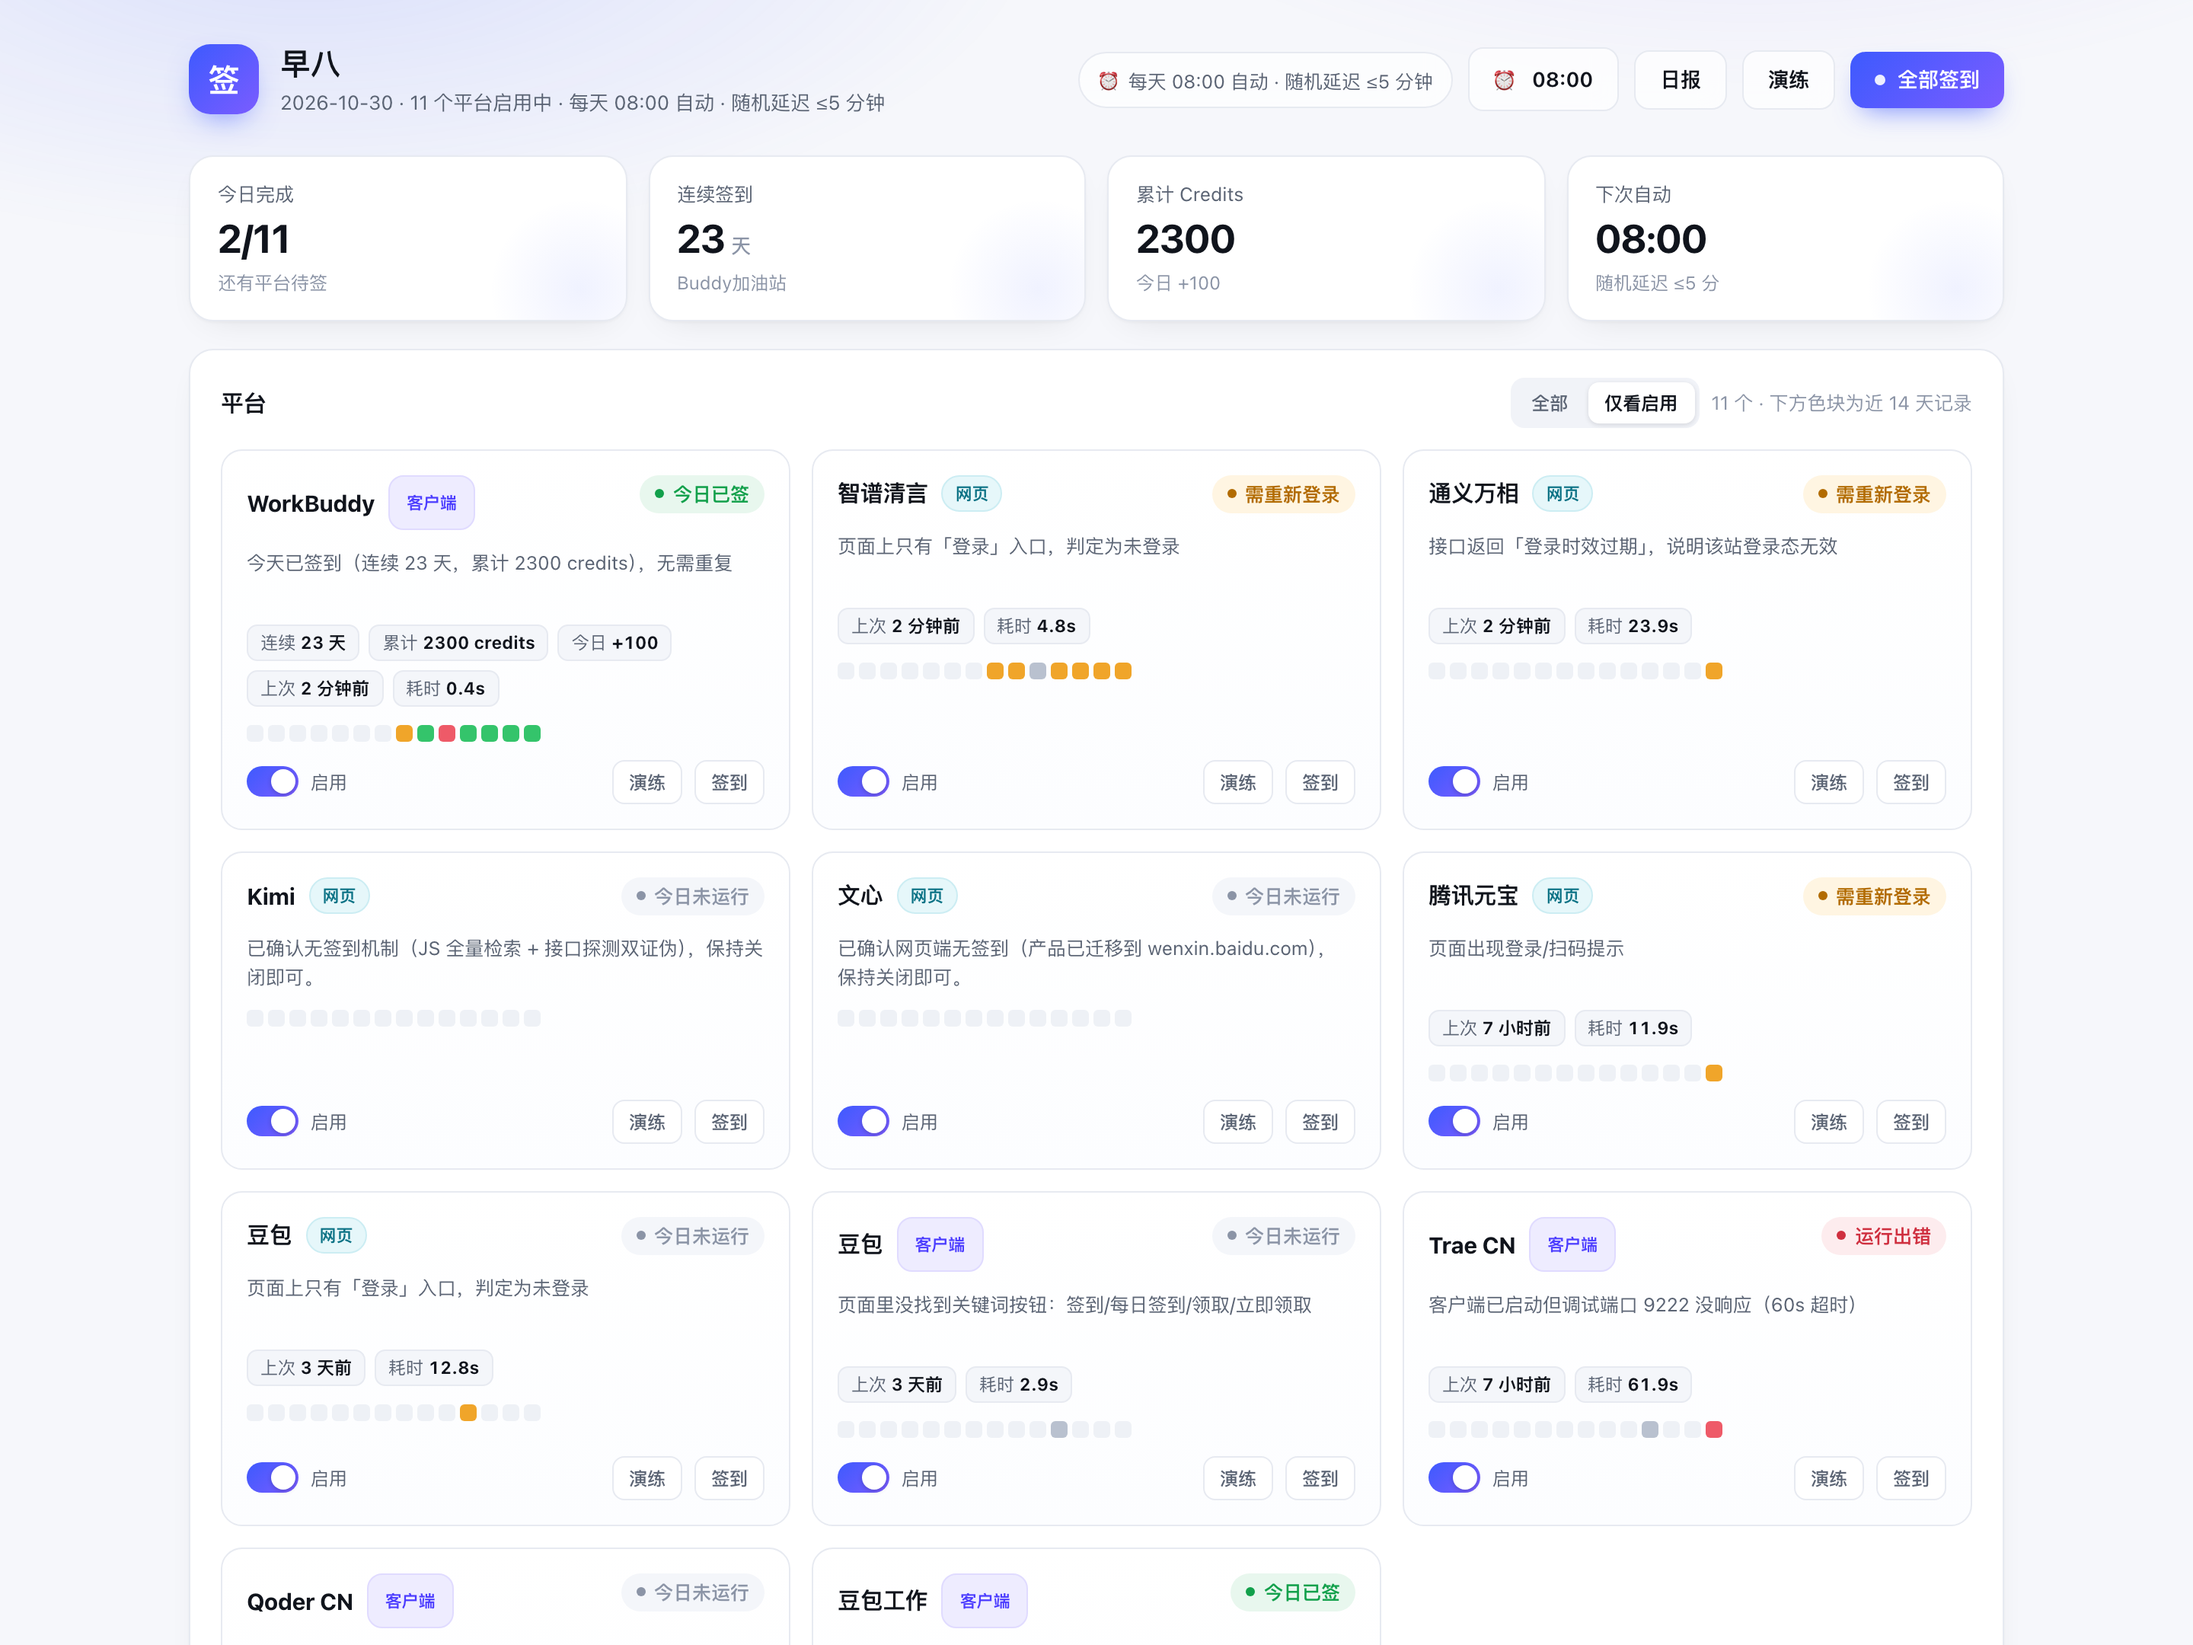
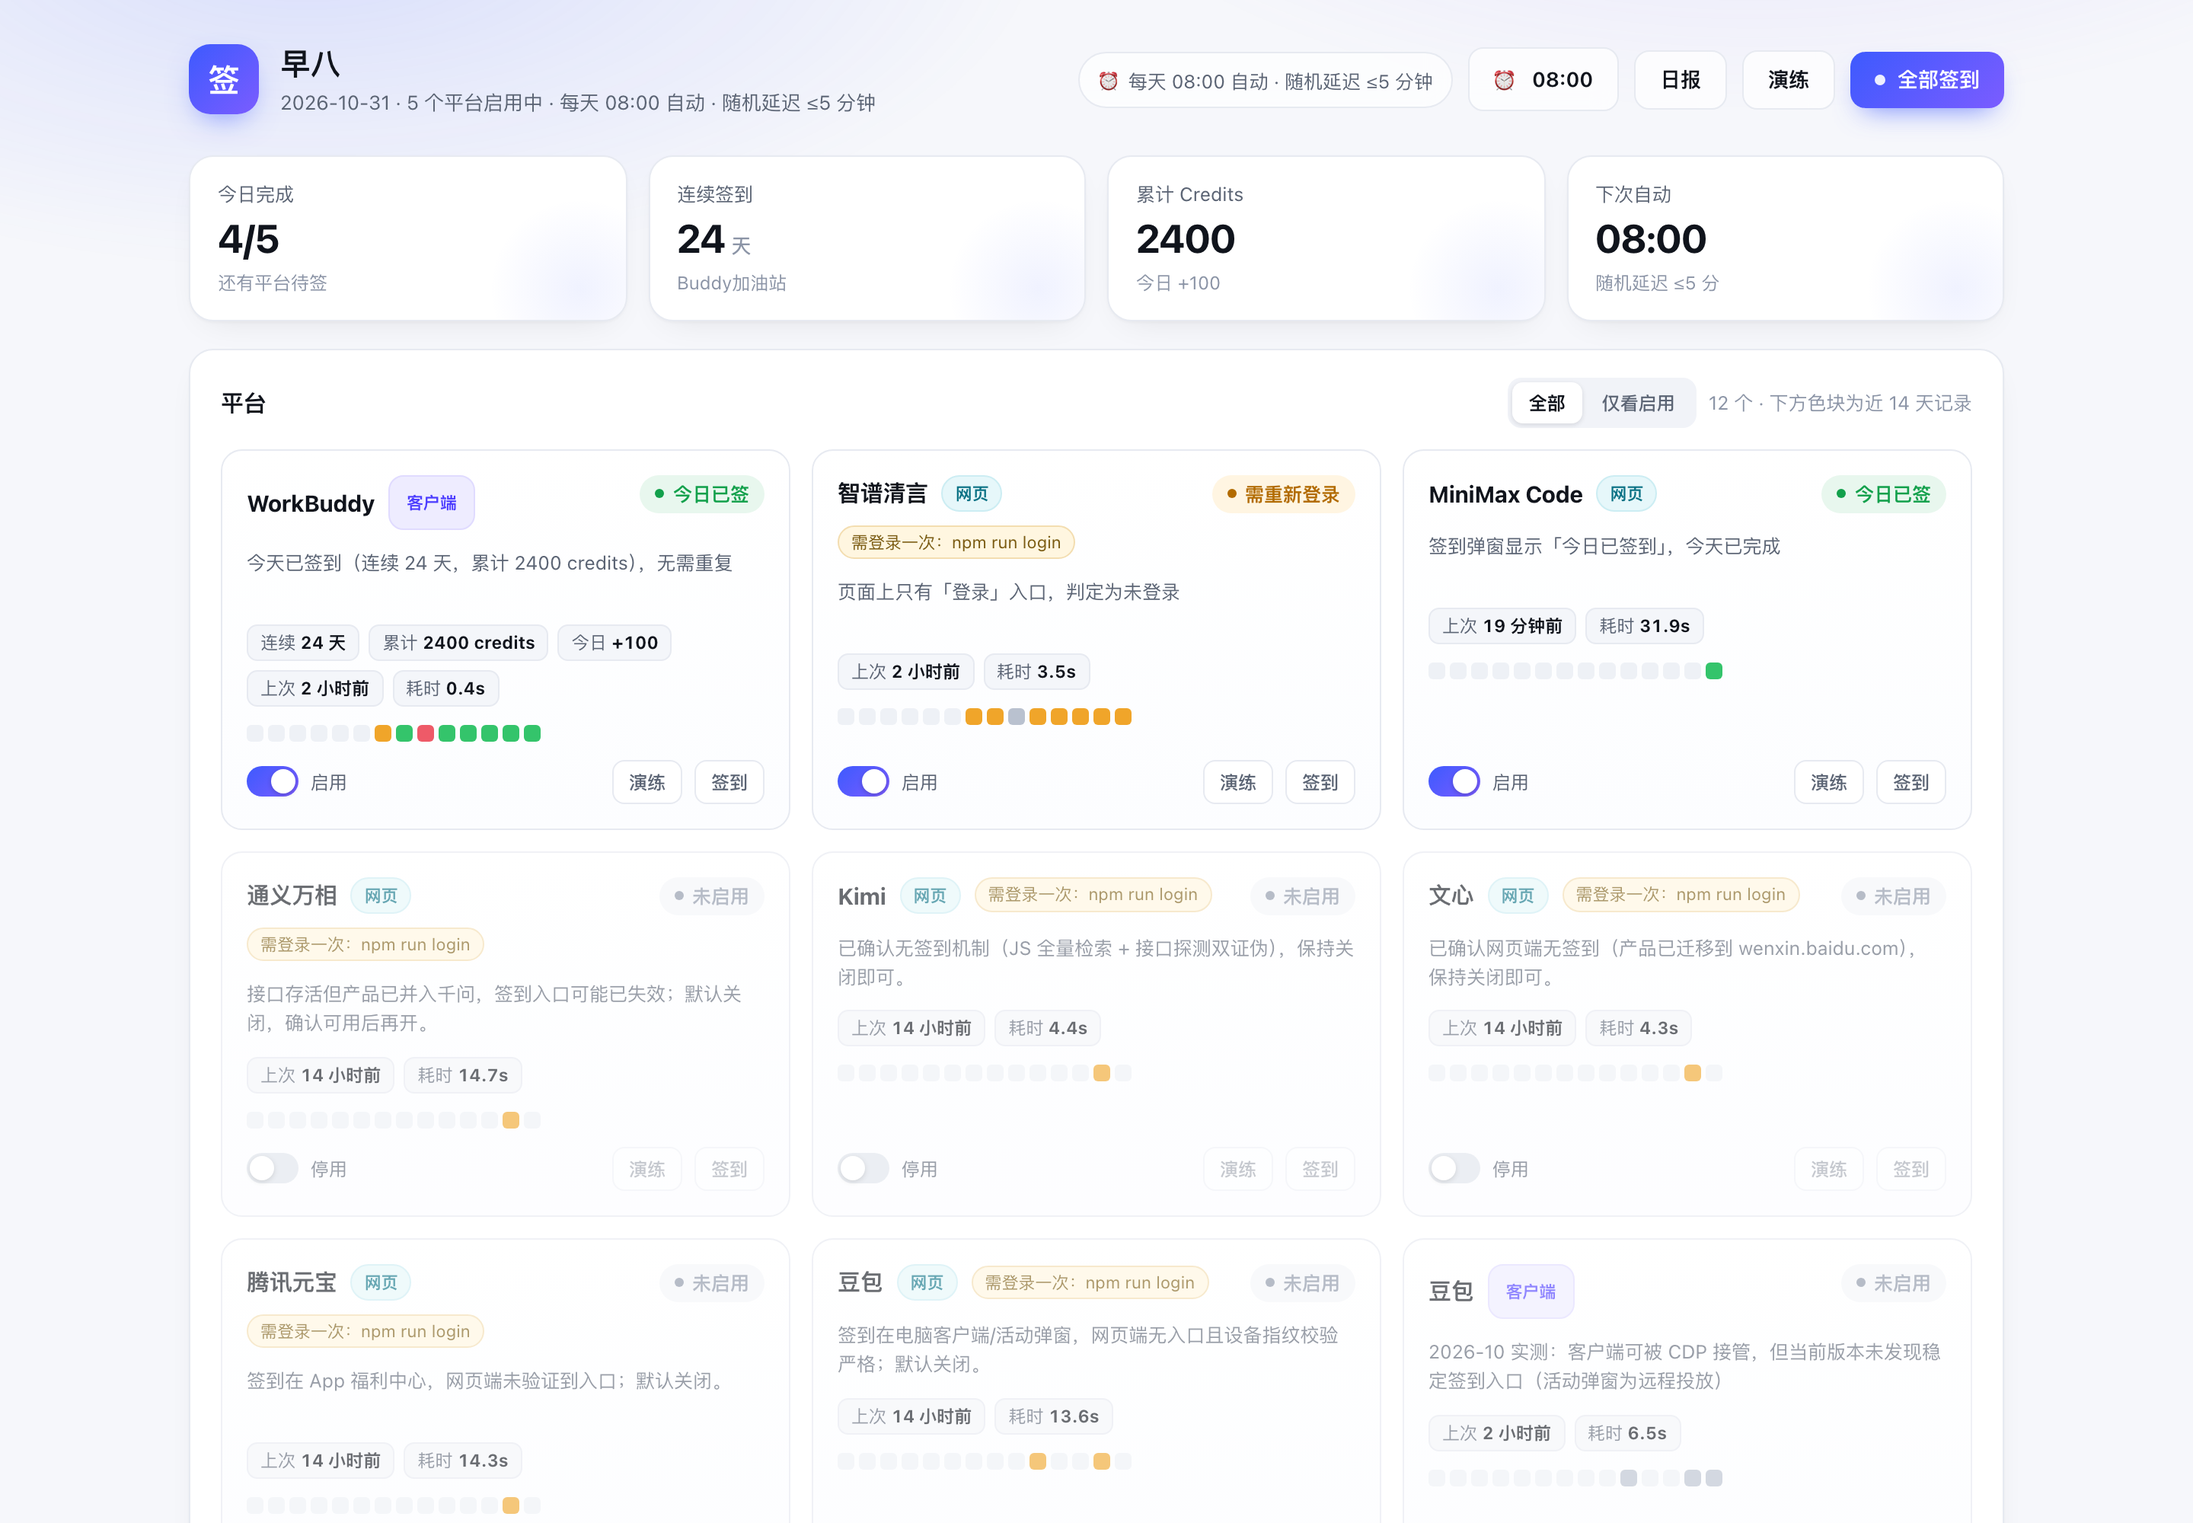
feat: 控制台卡片显示平台方式（客户端/网页）+ 缺客户端/需登录提示

diff --git a/src/server.js b/src/server.js
@@ -51,6 +51,19 @@ export function buildState() {
     byPlatform.get(r.id).push(r);
   }
 
+  // 客户端可执行文件候选路径（用于判断「客户端是否已安装」）
+  const KNOWN_APPS = {
+    workbuddy: platform.knownAppPaths.workbuddy,
+    'doubaowork-client': platform.knownAppPaths.doubaowork,
+    doubaowork: platform.knownAppPaths.doubaowork,
+    'trae-cn': platform.knownAppPaths.trae,
+    trae: platform.knownAppPaths.trae,
+    'qoder-cn': platform.knownAppPaths.qoder,
+    qoder: platform.knownAppPaths.qoder,
+    'doubao-client': platform.knownAppPaths.doubao,
+    doubao: platform.knownAppPaths.doubao,
+  };
+
   const platforms = adapters.map((a) => {
     const list = (byPlatform.get(a.id) || []).slice().sort((x, y) => String(x.ts).localeCompare(String(y.ts)));
     const last = list[list.length - 1] || null;
@@ -61,10 +74,38 @@ export function buildState() {
     }
     const todayRec = list.filter((r) => r.date === today()).pop() || null;
     const pc = cfg.platforms[a.id] || {};
+    // 判定方式：config 里显式 type 优先；否则看是否是客户端接管类适配器
+    const mode =
+      pc.type === 'client'
+        ? 'client'
+        : pc.type === 'web'
+          ? 'web'
+          : a.clientApp || pc.app || a.id === 'workbuddy'
+            ? 'client'
+            : 'web';
+    const cands = pc.appCandidates || (pc.app ? [pc.app] : KNOWN_APPS[a.id] || []);
+    const clientInstalled = mode === 'client' ? cands.some((x) => x && fs.existsSync(x)) : null;
+    const loginStatuses = [todayRec?.status, last?.status].filter(Boolean);
+    const needsLogin = loginStatuses.includes('needs_login');
+    const setupHint =
+      mode === 'client' && clientInstalled === false
+        ? '需先安装客户端'
+        : needsLogin
+          ? mode === 'client'
+            ? '需在客户端里登录一次'
+            : '需登录一次：npm run login'
+          : !last
+            ? mode === 'client'
+              ? '尚未运行（确认客户端已登录）'
+              : '尚未运行（先 npm run login 登录）'
+            : '';
     return {
       id: a.id,
       name: a.name,
-      kind: a.standalone || a.clientApp ? 'client' : 'web',
+      kind: mode,
+      clientInstalled,
+      needsLogin,
+      setupHint,
       enabled: !!pc.enabled,
       notes: a.notes || '',
       last: last

diff --git a/web/app.js b/web/app.js
@@ -108,6 +108,14 @@ function renderPlatforms() {
     const title = el('div', 'card-title');
     title.append(el('h3', '', p.name));
     title.append(el('span', `badge ${p.kind}`, p.kind === 'client' ? '客户端' : '网页'));
+    if (p.setupHint) {
+      const warn = p.kind === 'client' && p.clientInstalled === false;
+      const chip = el('span', `setup-chip${warn ? ' warn' : ''}`, p.setupHint);
+      chip.title = warn
+        ? '这个平台的签到在桌面客户端里，需要先安装客户端'
+        : '还没登录过这个平台，按提示登录一次即可';
+      title.append(chip);
+    }
     top.append(title);
 
     const st = p.enabled ? statusOf(p.todayStatus || 'none') : statusOf('disabled');

diff --git a/web/style.css b/web/style.css
@@ -478,3 +478,26 @@ main {
 @media (max-width: 620px) {
   #btnSchedule { display: none; }
 }
+
+/* ---------------- setup hint chip ---------------- */
+.setup-chip {
+  font-size: 11px;
+  line-height: 1.5;
+  color: #7a5b12;
+  background: #fff6e0;
+  border: 1px solid #f3ddb0;
+  border-radius: 999px;
+  padding: 2px 8px;
+  white-space: nowrap;
+  overflow: hidden;
+  text-overflow: ellipsis;
+  max-width: 260px;
+}
+.setup-chip.warn {
+  color: #8c2f2f;
+  background: #ffecec;
+  border-color: #f4c9c9;
+}
+@media (max-width: 620px) {
+  .setup-chip { max-width: 150px; font-size: 10px; }
+}

diff --git a/README.md b/README.md
@@ -153,7 +153,13 @@ npm run setup -- --disable=trae-cn
    9   Qoder CN         客户端   +100 积分/天      停用     ❌ 缺客户端
 ```
 
-网页控制台里每个平台也有开关，效果一样。
+网页控制台里每个平台也有开关，效果一样。卡片上还会直接标出：
+
+- **方式徽章**：`客户端` / `网页`
+- **提示条**：`需先安装客户端`（红色）或 `需登录一次：npm run login`（黄色）
+- **状态徽章**：`需重新登录`（当该平台登录态失效时）
+
+所以不用翻文档，打开控制台就知道每个平台还差什么。
 
 ## 修改运行时间
 
